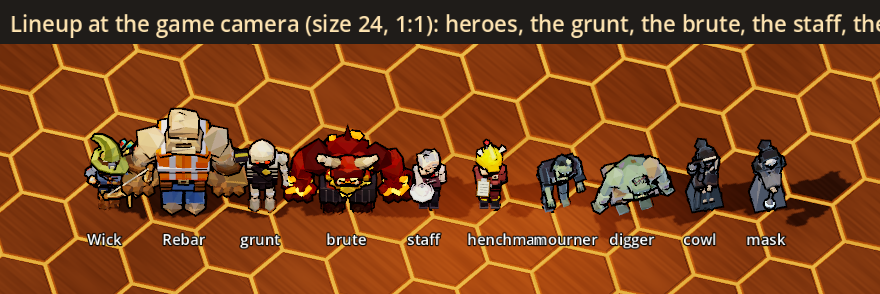
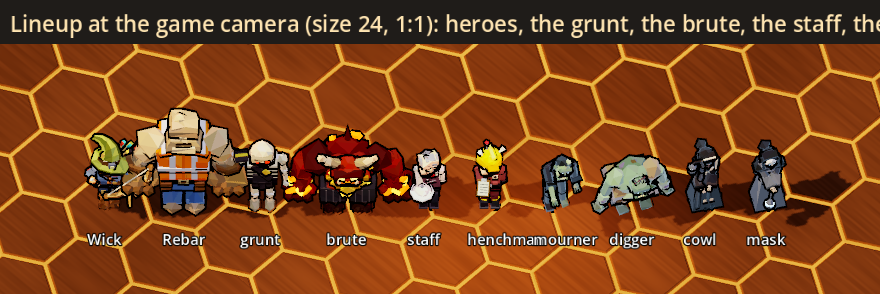
Necro look: the mourner without coat tails, with a thin torso (the user: "Better!")

Changed region(s): [[0.583, 0.5204, 0.675, 0.7347], [0.675, 0.7347, 0.7057, 0.7959]]

diff --git a/docs/design/necro-look.md b/docs/design/necro-look.md
@@ -13,6 +13,15 @@ The decisions this serves (new-themes.md, "Ghost house: haunted contracts"):
 The glow is the ghost look the user picked (ghost-look.md, 2026-10-29: "The rim look is really good"): the ghost colour
 on eyes, hands, flames and pages, and the rim (the faceted fresnel) on the raised dead.
 
+## The user's read (2026-10-29)
+
+- **The zombie is the mourner** (asked whether "the zombie" meant the mourner: "Yes, but let's look at the shape of the
+  torso first").
+- **No coat tails**: "The coattails definitely don't read. Remove them."
+- **A thin torso**: "And let's make it a thin torso." The coat now tapers from a narrow chest (0.42 wide, was 0.56) to a
+  thin waist (0.26, was 0.46) and is shallower; the shoulders, arms and legs moved in to match, and a hunched upper back
+  was added. The user: "Better!"
+
 ## What the user is choosing
 
 - **Which zombie**, or both: the **mourner** or the **digger**.
